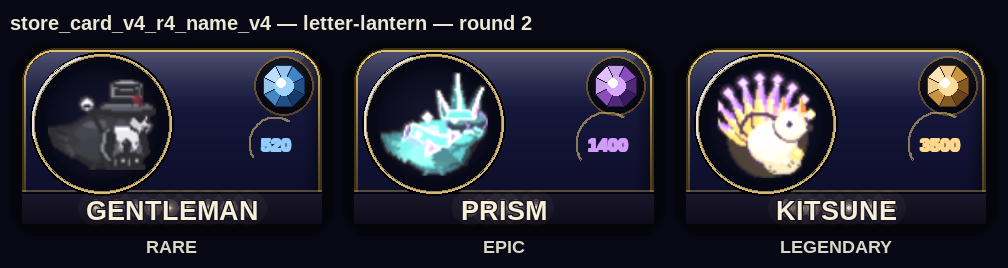
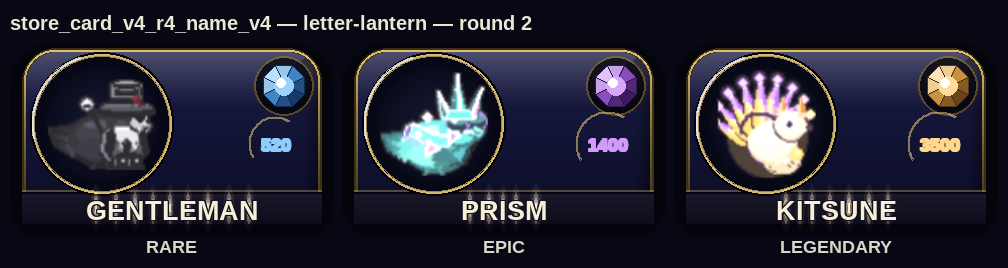
Add store_card_v4_r4_name_v4 letter-lantern round 2
Claude-Session: https://claude.ai/code/session_011726ot8uBSmurQVaEkGY6K

diff --git a/tools/_store_card_v4_r4_name_v4_letter_lantern_r2.py b/tools/_store_card_v4_r4_name_v4_letter_lantern_r2.py
@@ -22,22 +22,27 @@ _INSET = 6
 R = 36
 
 
-def _warm_puck(surf, cx, cy, radius, color, peak_a, layers):
+def _warm_puck(surf, cx, cy, rx, ry, color, peak_a, layers):
     # Premultiplied additive glow.  BLEND_ADD ignores source alpha, so the shared
     # soft_glow's flat-colour circles saturate every channel to 255 on overlap —
     # the r1 white-clip.  Scaling each layer's RGB by its own alpha keeps peak_a
     # governing brightness AND preserves the warm 255:236:190 ratio through
-    # accumulation, so cores read ivory and never blow to pure white.
+    # accumulation, so cores read ivory and never blow to pure white.  The pool
+    # is an ellipse: this glyph's ink fills its whole advance box, so a circular
+    # halo wide enough to sit past the letter would flood the butting neighbour
+    # and erase the dark gaps.  A tall/narrow lozenge spills vertically past the
+    # cap (the visible pool) while staying inside the advance so gaps stay dark.
     for i in range(layers, 0, -1):
-        r = int(radius * i / layers)
+        ax = int(rx * i / layers)
+        ay = int(ry * i / layers)
         a = int(peak_a * (1 - (i - 1) / layers) ** 1.8)
-        if r <= 0 or a <= 0:
+        if ax <= 0 or ay <= 0 or a <= 0:
             continue
         fr = a / 255.0
         col = (int(color[0] * fr), int(color[1] * fr), int(color[2] * fr))
-        g = pygame.Surface((r * 2 + 2, r * 2 + 2), pygame.SRCALPHA)
-        pygame.draw.circle(g, (*col, 255), (r + 1, r + 1), r)
-        surf.blit(g, (cx - r - 1, cy - r - 1), special_flags=pygame.BLEND_ADD)
+        g = pygame.Surface((ax * 2 + 2, ay * 2 + 2), pygame.SRCALPHA)
+        pygame.draw.ellipse(g, (*col, 255), (1, 1, ax * 2, ay * 2))
+        surf.blit(g, (cx - ax - 1, cy - ay - 1), special_flags=pygame.BLEND_ADD)
 
 
 def _name_letter_lantern(big, name, cx, cy, max_w):
@@ -54,28 +59,33 @@ def _name_letter_lantern(big, name, cx, cy, max_w):
     n_chars = len(name)
 
     # peak_alpha base ~90; longer names (>=8) pack more pucks so each is dimmed
-    # toward ~65 to keep neighbour overlap from washing gaps or clipping cores.
-    peak_a = 90 if n_chars < 8 else int(round(max(65, 90 - (n_chars - 7) * (90 - 65) / 3)))
+    # toward ~70 to keep neighbour overlap from washing gaps or clipping cores.
+    peak_a = 90 if n_chars < 8 else int(round(max(70, 90 - (n_chars - 7) * (90 - 70) / 3)))
 
-    # Glow pass: per glyph a wide soft under-disc (halo that spills a few px past
-    # the cap so the letter visibly sits in its own pool) plus a tighter core
-    # puck.  Additive accumulation reads as individual lanterns; the dark inter-
-    # glyph gaps stay dark because pucks are sized to each advance, not the band.
+    # Glow pass, per glyph: a tall core puck plus two soft under-lobes offset
+    # above/below.  The lobes push warm light out past the cap top/bottom so each
+    # letter visibly sits in its own pool WITHOUT over-brightening (and clipping)
+    # the centre the way one big centred disc would.  Additive accumulation reads
+    # as individual lanterns; the dark inter-glyph gaps stay dark because every
+    # pool is a narrow vertical lozenge sized to its own advance, not the band.
     glow_surf = pygame.Surface(big.get_size(), pygame.SRCALPHA)
     puck_y = cy - m(1)                              # centre on the cap body, not descender space
     x = cx - total_w // 2
     for char, adv in zip(name, advances):
         glyph_cx = x + adv // 2
-        # radius = clamp(adv * 0.42, m(3), m(7)) — higher ceiling lets wide caps
-        # own a pool that clears the glyph instead of hiding under it.
-        r = max(m(3), min(m(7), int(adv * 0.42)))
+        # rx stays inside the advance so gaps stay dark; ry adds m(7) of height so
+        # the pool clears the glyph vertically (the "extend past the glyph" note).
+        rx = max(m(2.5), min(m(6), int(adv * 0.32)))
+        ry = rx + m(7)
         pa = peak_a
         # Narrow glyphs (e.g. "I") sit close to neighbours; dim their core so the
         # two pools don't fuse into one bar.
         if adv < m(4):
             pa = max(peak_a - 20, 48)
-        _warm_puck(glow_surf, glyph_cx, puck_y, m(9), (255, 236, 190), 32, layers=2)
-        _warm_puck(glow_surf, glyph_cx, puck_y, r, (255, 236, 190), pa, layers=4)
+        lobe_rx = int(rx * 0.85)
+        _warm_puck(glow_surf, glyph_cx, puck_y - m(4), lobe_rx, m(8), (255, 236, 190), 44, layers=2)
+        _warm_puck(glow_surf, glyph_cx, puck_y + m(4), lobe_rx, m(8), (255, 236, 190), 44, layers=2)
+        _warm_puck(glow_surf, glyph_cx, puck_y, rx, ry, (255, 236, 190), pa, layers=4)
         x += adv
     big.blit(glow_surf, (0, 0), special_flags=pygame.BLEND_ADD)
 
